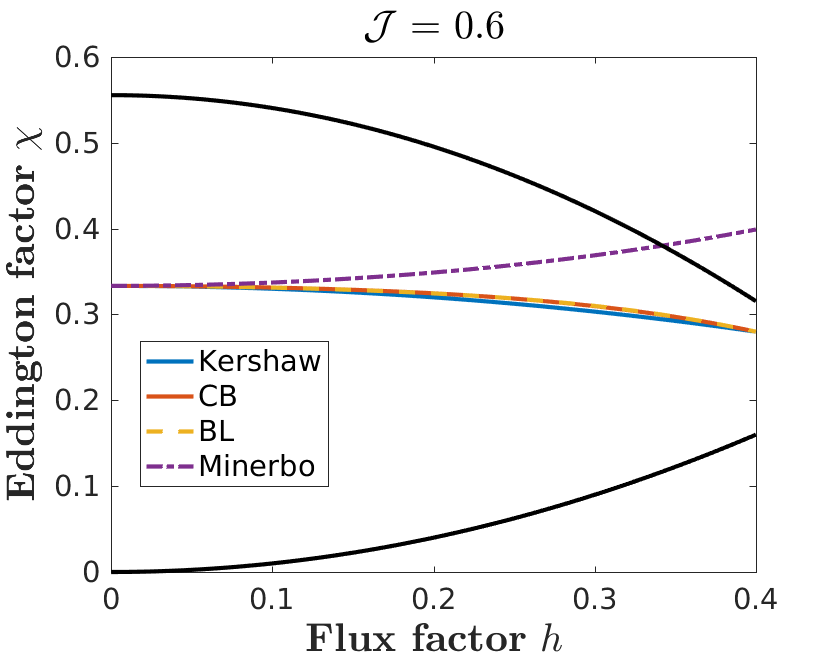
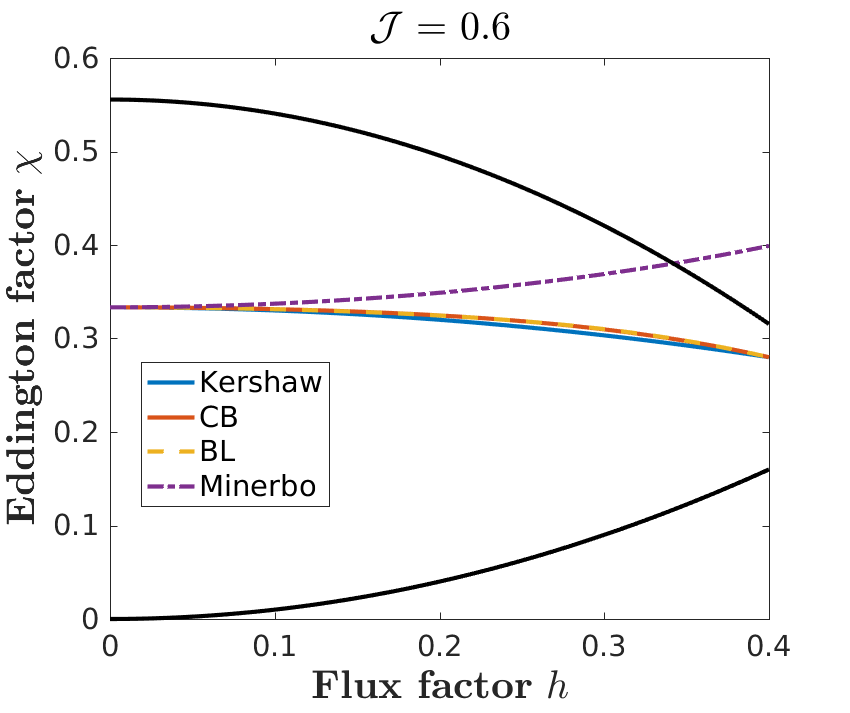
Cosmetic changes.

diff --git a/Documents/M1/realizableFermionicM1/figures/plotDifferentClosure.m b/Documents/M1/realizableFermionicM1/figures/plotDifferentClosure.m
@@ -6,7 +6,7 @@ theta_MECB = @(x) x.*x.*(3-x+3.*x.*x)./5;
 theta_MEBL = @(x) (9.*x.*x-5+sqrt(33.*x.^4 - 42.*x.*x+25))/8;
 
 nPts = 1024;
-J = 0.99;
+J = 0.01;
 h = linspace(0.0,1.0 - J,nPts);
 
 Kershaw = zeros(nPts,1);
@@ -32,18 +32,19 @@ plot(h,brydown,'-k','linewidth', 2);
 lgnd = legend({'Kershaw','CB','BL','Minerbo'},...
     'Location','best');
 set(lgnd,'FontSize',14);
-xlim([0,1-J]);
+% xlim([0,1-J]);
+set(gca,'xtick',0:0.2:1.0);
 set(gca,'FontSize',14)
 xlabel('{\bf Flux factor} $h$','Interpreter','LaTeX','FontSize',19);
 ylabel('{\bf Eddington factor} $\chi$','Interpreter','LaTeX','FontSize',19);
-title(['$\mathcal{J}$ = ',num2str(J)],'Interpreter','LaTeX','FontSize',19);
+title(['$\mathcal{J}$ = ',num2str(J)],'Interpreter','LaTeX','FontSize',20);
 
 x0=10;
 y0=5;
 width=400;
 height=320;
 set(gcf,'units','points','position',[x0,y0,width,height])
-saveas(fig,['Closures0_', num2str(J*100),'.png']);
+saveas(fig,['Closures0_0', num2str(J*100),'.png']);
 
 function [ value ] = Closure( J, h, theta_fun )
 
